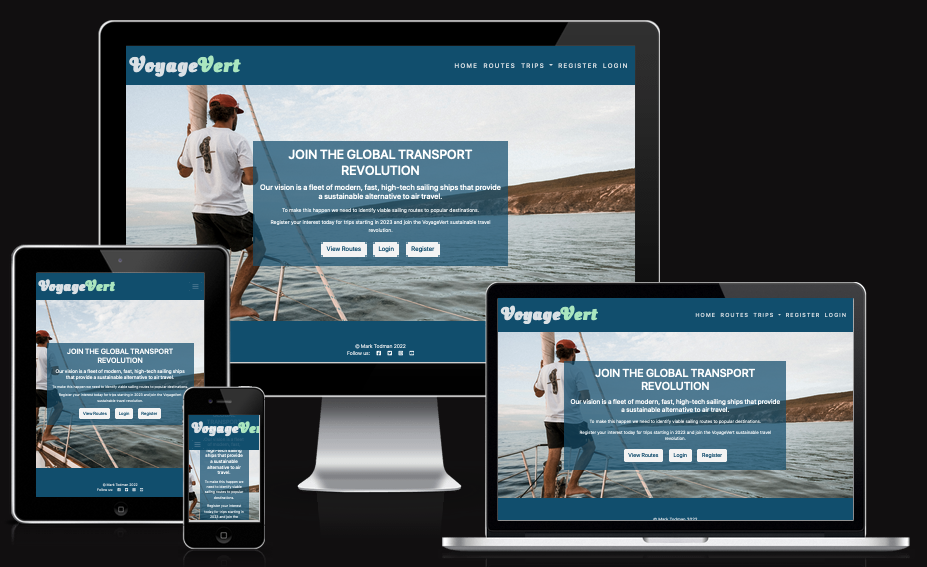
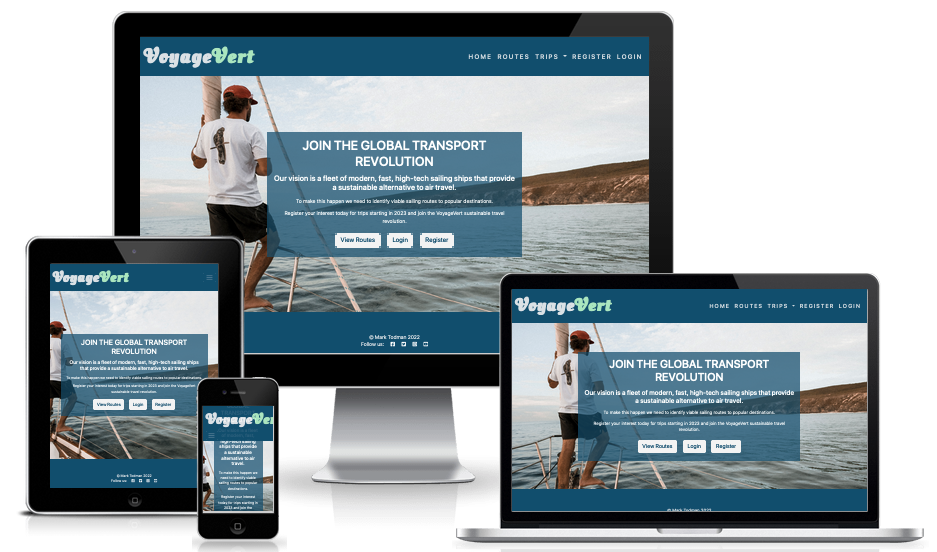
fix: Compress images and update image links and database

diff --git a/templates/index.html b/templates/index.html
@@ -7,8 +7,8 @@
             <div class="text-white">
                 <!-- Landing page text -->
                 <h1 class="mb-3 text-uppercase">Join the global transport revolution</h1>
-                <h4 class="mb-3">Our vision is a fleet of modern, fast, high-tech sailing ships that provide a
-                    sustainable alternative to air travel.</h4>
+                <p class="mb-3">Our vision is a fleet of modern, fast, high-tech sailing ships that provide a
+                    sustainable alternative to air travel.</p>
                 <p>To make this happen we need to identify viable sailing routes to popular destinations.</p>
                 <p>Register your interest today for trips starting in 2023 and join the VoyageVert sustainable travel revolution.</p>
                 <!-- If user already logged in show link to Routes page -->

diff --git a/templates/trips.html b/templates/trips.html
@@ -24,7 +24,7 @@
             <div class="card h-100">
                 {% if "placeholder" in route_image.url %}
                 <img class="card-img-top image-responsive"
-                    src="https://res.cloudinary.com/mt226/image/upload/v1659624957/jtjl3aynyzh6deheh6no.jpg"
+                    src="https://res.cloudinary.com/mt226/image/upload/v1661516205/pexels-rachel-claire-6760957-min_brgmry.jpg"
                     alt="sailing image" style="max-height: 300px">
                 {% else %}
                 <img class="card-img-top image-responsive" src="{{ route_image.url }}" alt="destination image"

diff --git a/templates/routes.html b/templates/routes.html
@@ -20,7 +20,7 @@
             <div class="card h-100">
                 {% if "placeholder" in route.featured_image.url %}
                 <img class="card-img-top image-responsive"
-                    src="https://res.cloudinary.com/mt226/image/upload/v1659624957/jtjl3aynyzh6deheh6no.jpg"
+                    src="https://res.cloudinary.com/mt226/image/upload/v1661516205/pexels-rachel-claire-6760957-min_brgmry.jpg"
                     alt="sailing image" style="max-height: 300px">
                 {% else %}
                 <img class="card-img-top image-responsive" src=" {{ route.featured_image.url }}"

diff --git a/static/css/style.css b/static/css/style.css
@@ -65,7 +65,7 @@ body {
 /* Home page */
 
 .bg-photo {
-    background-image: url('https://res.cloudinary.com/mt226/image/upload/v1659624957/jtjl3aynyzh6deheh6no.jpg');
+    background-image: url('https://res.cloudinary.com/mt226/image/upload/v1661516205/pexels-rachel-claire-6760957-min_brgmry.jpg');
     background-position: center;
     background-size: cover;
     background-repeat: no-repeat;

diff --git a/README.md b/README.md
@@ -3,3 +3,23 @@
 ## By Mark Todman
 
 ![Launch page screenshot.](/static/images/readme/voyagevert-amiresponsive.png)
+
+The deployed [VoyageVert](https://voyagevert.herokuapp.com/) app.
+
+The [GitHub repository.](https://github.com/marktodman/voyage-vert)
+
+---
+## OVERVIEW
+1. [VoyageVert Concept](#VoyageVert-Concept)
+1. [Planning](#Planning)
+1. [How to use Race Pace](#How-to-use-Race-Pace)
+1. [Testing](#Testing)
+1. [Deployment](#Deployment)
+1. [Future Development Ideas](#Future-development-ideas)
+1. [Credits](#Credits)
+
+## VOYAGEVERT CONCEPT
+
+The concept for the VoyageVert web application comes from a need to validate an existing business idea, which has been worked on with the business owner's permission. The existing website for [VoyageVert](www.voyagevert.org) set outs the business vision for a future of sustainable ocean travel using high-speed yachts to replace air travel. One key aspect to moving the business forward is to demonstrate the demand for the service to investors.
+
+This VoyageVert web application is designed to gather the user information to validate the business concept. The web app can be used as a landing page as part of a marketing campaign to engage users, gather user information and to test consumer interest in certain routes of travel and potential dates of travel.
